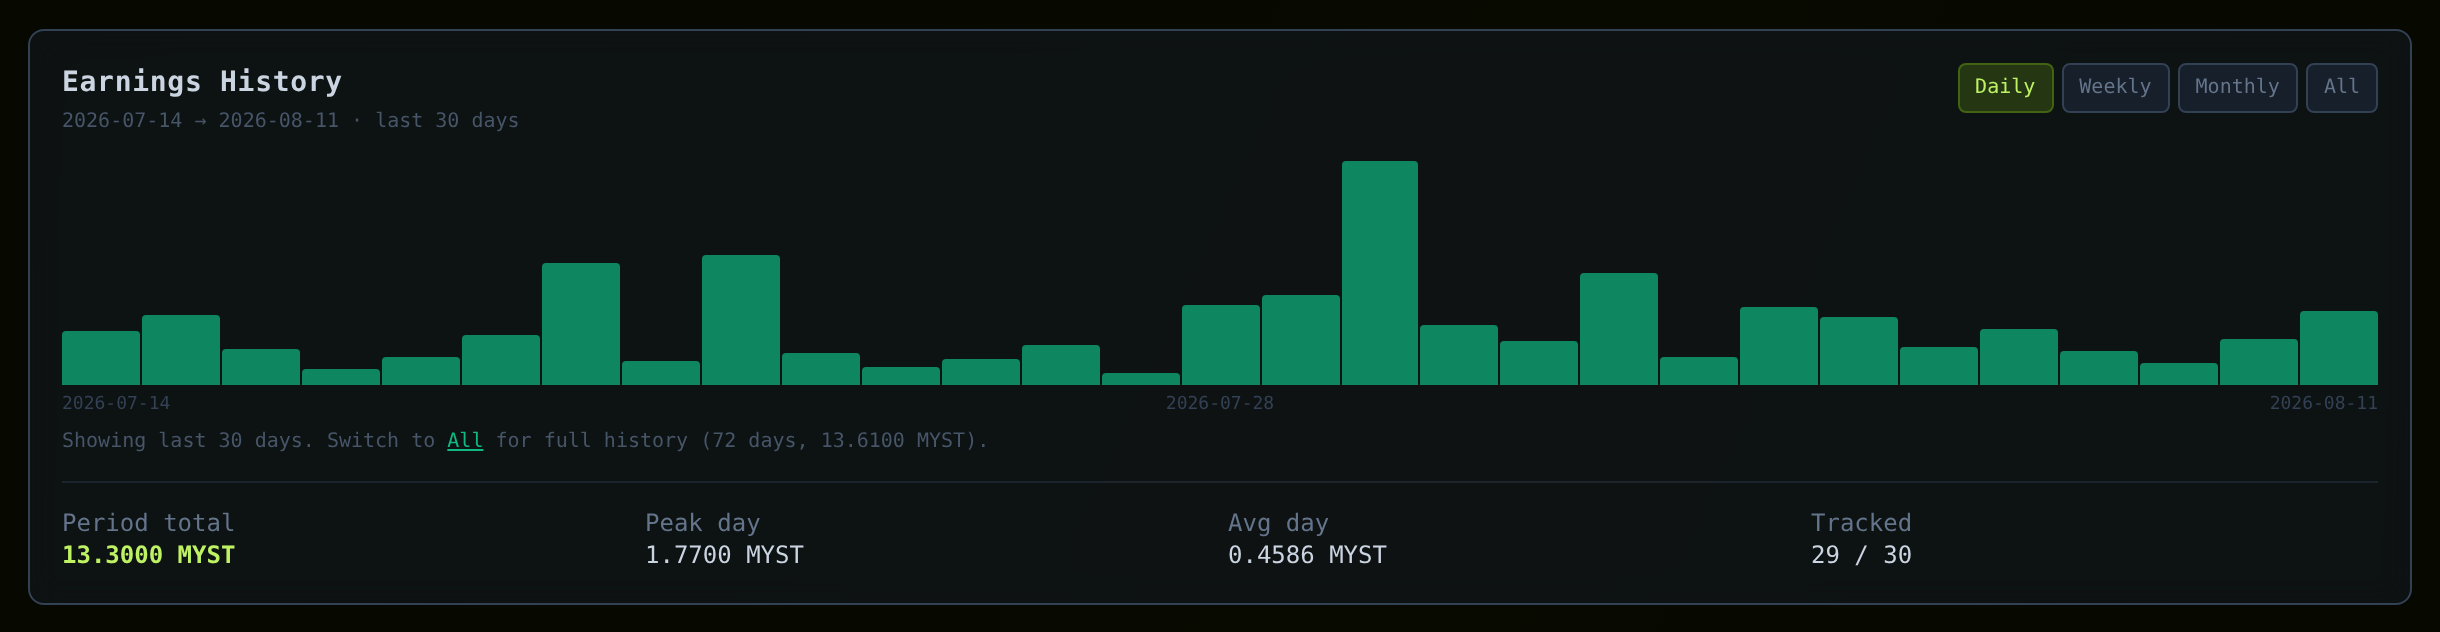
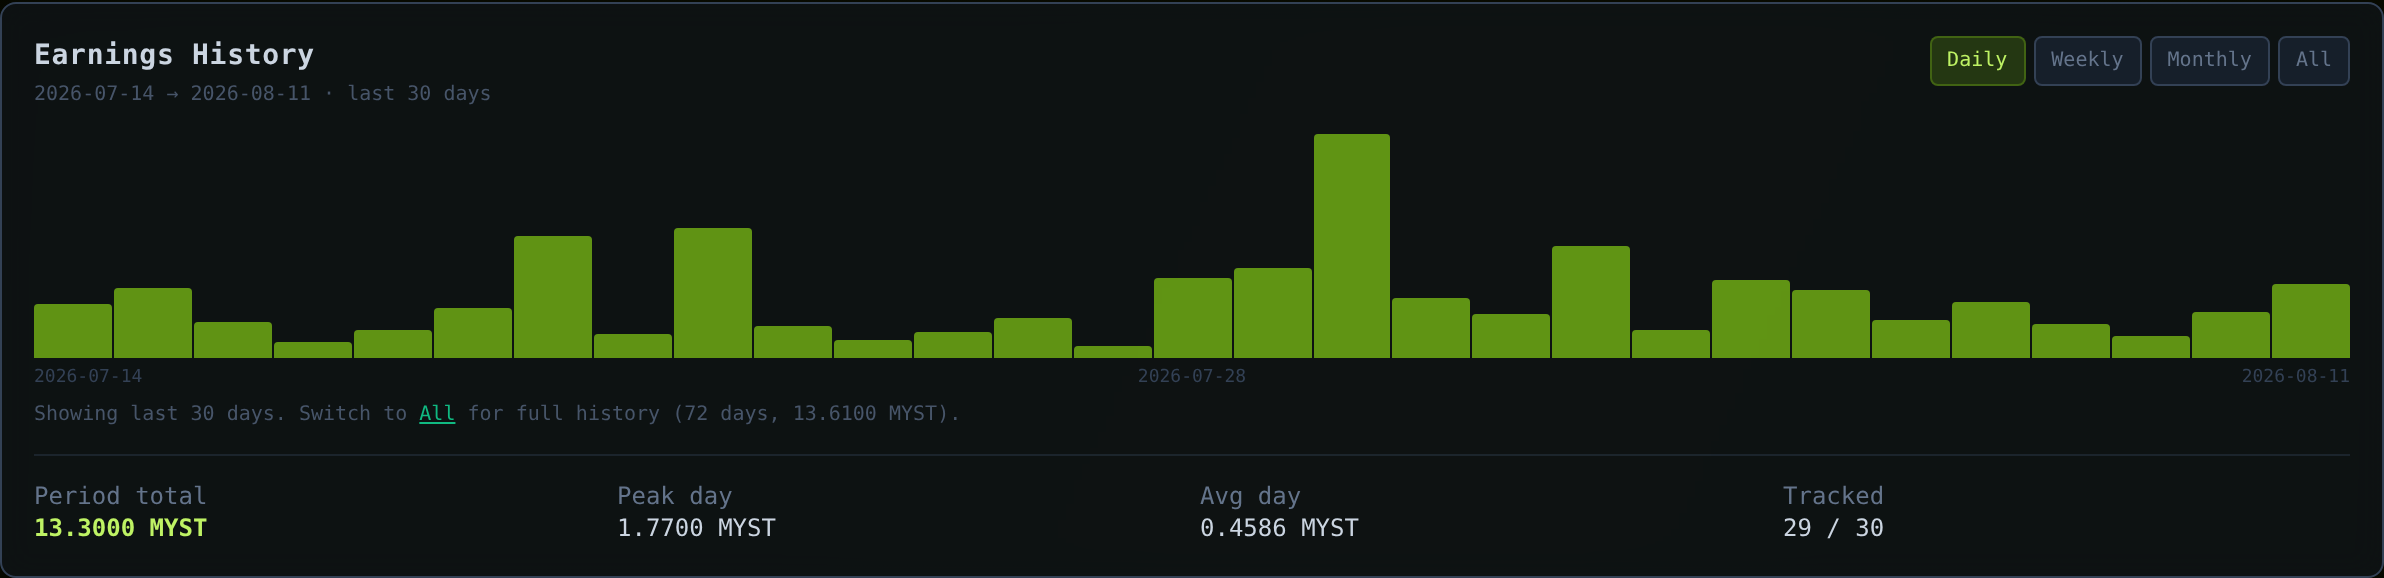
fix: theme mapping missed four opacity variants, leaving chart bars emerald in every other theme

Changed region(s): [[0.0, 0.0, 1.0, 1.0], [0.0, 0.0623, 0.2173, 0.218]]

diff --git a/frontend/Dashboard.jsx b/frontend/Dashboard.jsx
@@ -267,6 +267,11 @@ function generateThemeCSS(key) {
   ${s} .bg-${fam}-500\\/10{background-color:rgb(${c500}/0.1)!important}
   ${s} .bg-${fam}-500\\/20{background-color:rgb(${c500}/0.2)!important}
   ${s} .bg-${fam}-500\\/30{background-color:rgb(${c500}/0.3)!important}
+  ${s} .bg-${fam}-500\\/15{background-color:rgb(${c500}/0.15)!important}
+  ${s} .bg-${fam}-500\\/25{background-color:rgb(${c500}/0.25)!important}
+  ${s} .bg-${fam}-500\\/35{background-color:rgb(${c500}/0.35)!important}
+  ${s} .bg-${fam}-500\\/70{background-color:rgb(${c500}/0.7)!important}
+  ${s} .group:hover .group-hover\\:bg-${fam}-400{background-color:rgb(${c400})!important}
   ${s} .hover\\:bg-${fam}-500\\/5:hover{background-color:rgb(${c500}/0.05)!important}
   ${s} .hover\\:bg-${fam}-500\\/10:hover{background-color:rgb(${c500}/0.1)!important}
   ${s} .hover\\:bg-${fam}-500\\/20:hover{background-color:rgb(${c500}/0.2)!important}

diff --git a/CHANGELOG.md b/CHANGELOG.md
@@ -33,6 +33,7 @@ Data from one node appearing under another node's name, in three separate places
 - fix (Test Connection reported 404 for a perfectly healthy node): the probe requested `/health`, an endpoint that does not exist — so it answered "Toolkit returned HTTP 404" for nodes the fleet collector was polling successfully at that moment. It now uses `/api/version`, and a 404 there says the address is probably the node API rather than the toolkit
 - fix (typing in the edit dialog was silently reverted): the config fetch that fills the form arrives a moment after it opens and used to overwrite every field. Adding the "s" to https:// in that window meant watching it disappear. It now fills only the fields still holding their original value, and only while the dialog is still showing the same node
 - fix (an https address in the TequilAPI field took the node out of the fleet): the node API serves plain HTTP and binds to loopback — TLS there is never possible. The field accepted it anyway, and the node went offline with an SSL error against port 4050. Corrected on entry and again on save, the same way port 4449 is corrected to 4050
+- fix (chart bars and several panels kept emerald colours in every other theme): the theme mapping covered `bg-emerald-500` and the /5, /10, /20 and /30 opacity variants, but not /15, /25, /35 or /70 — and the earnings chart draws its bars with `bg-emerald-500/70`. So in all ten non-emerald themes those bars stayed green while everything around them changed. Found while rendering the documentation screenshots
 - fix (an unreachable node was labelled "No NAT (public)"): the empty NAT value that means "public IP, no translation" is also what an offline node reports, so the new NAT row stated a fact about a machine that could not be contacted at all. Offline nodes now show a dash
 - feat (earnings snapshots and daily traffic record which node they came from): both tables keyed rows on time alone — `time` for snapshots, `date` for traffic — so two nodes writing in the same second collided and INSERT OR IGNORE dropped the second without a word, while nothing recorded which node any row belonged to. Both are rebuilt with a composite primary key of (time, provider_id) and (date, provider_id), in a transaction that rolls back and leaves the original table untouched if any row fails to carry over. Existing rows are attributed to this node's identity, read from the identity file. The five write paths now stamp the node, including the traffic upsert whose `ON CONFLICT(date)` clause no longer matches a composite key and would otherwise have failed on every write
 
